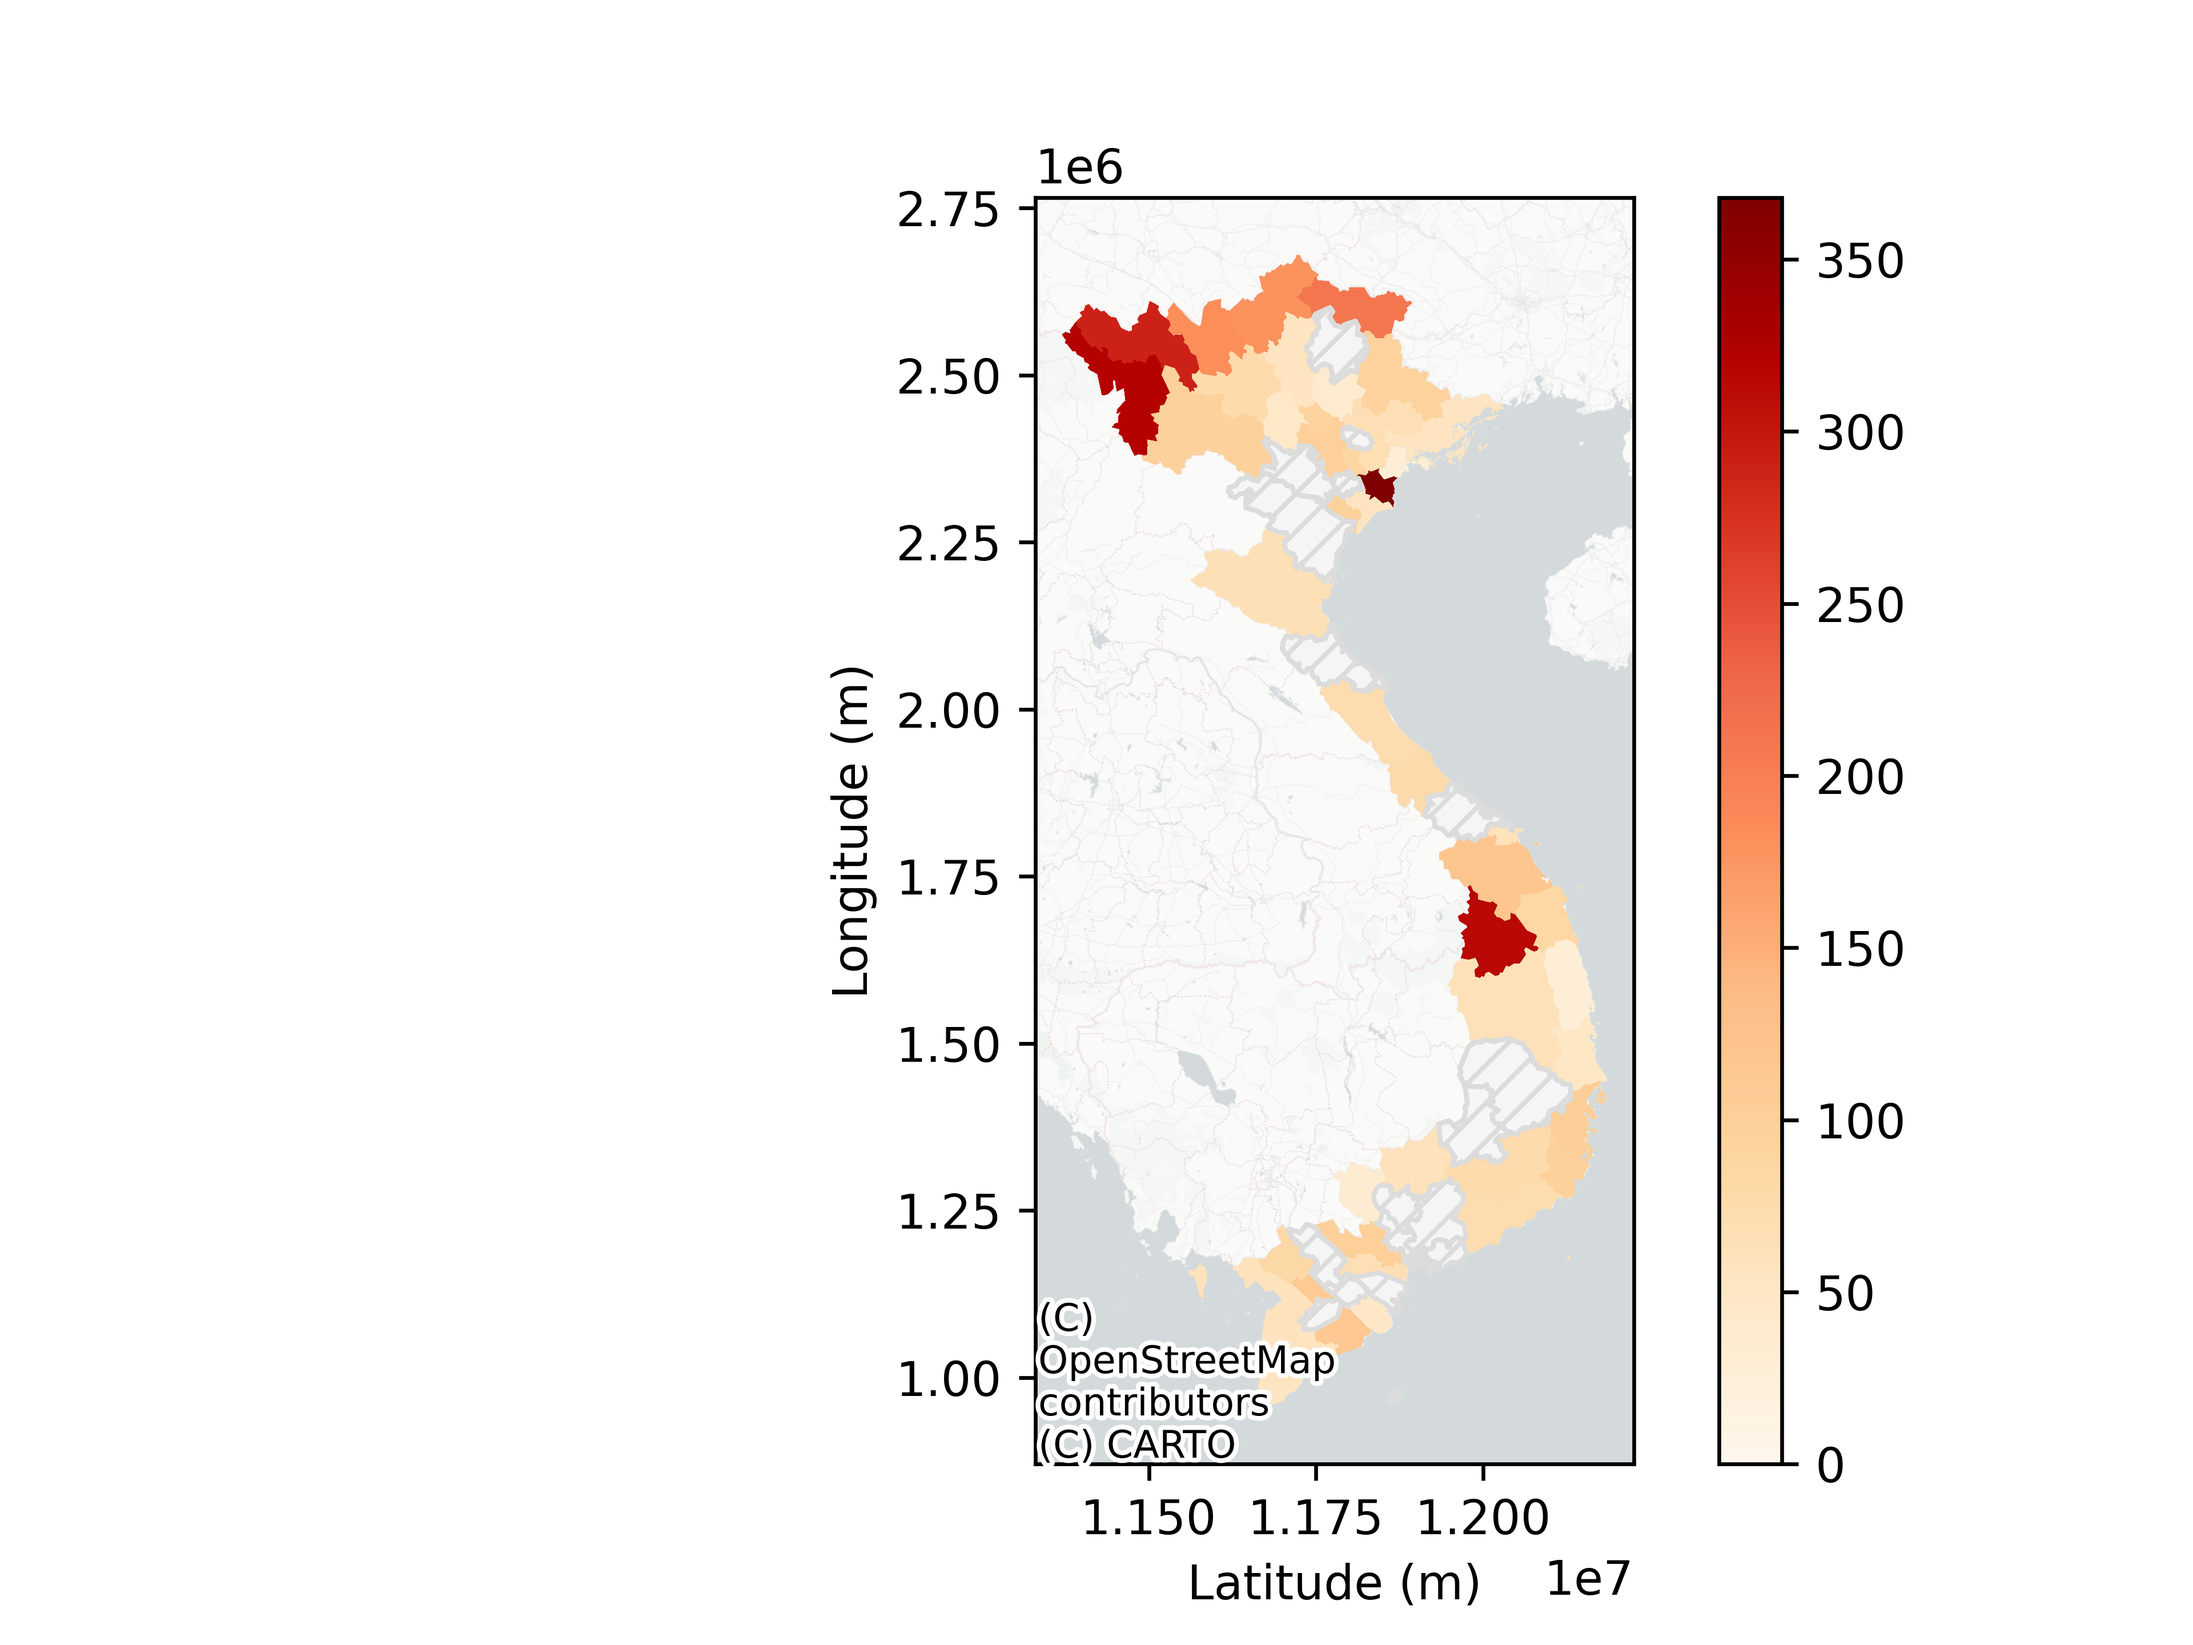
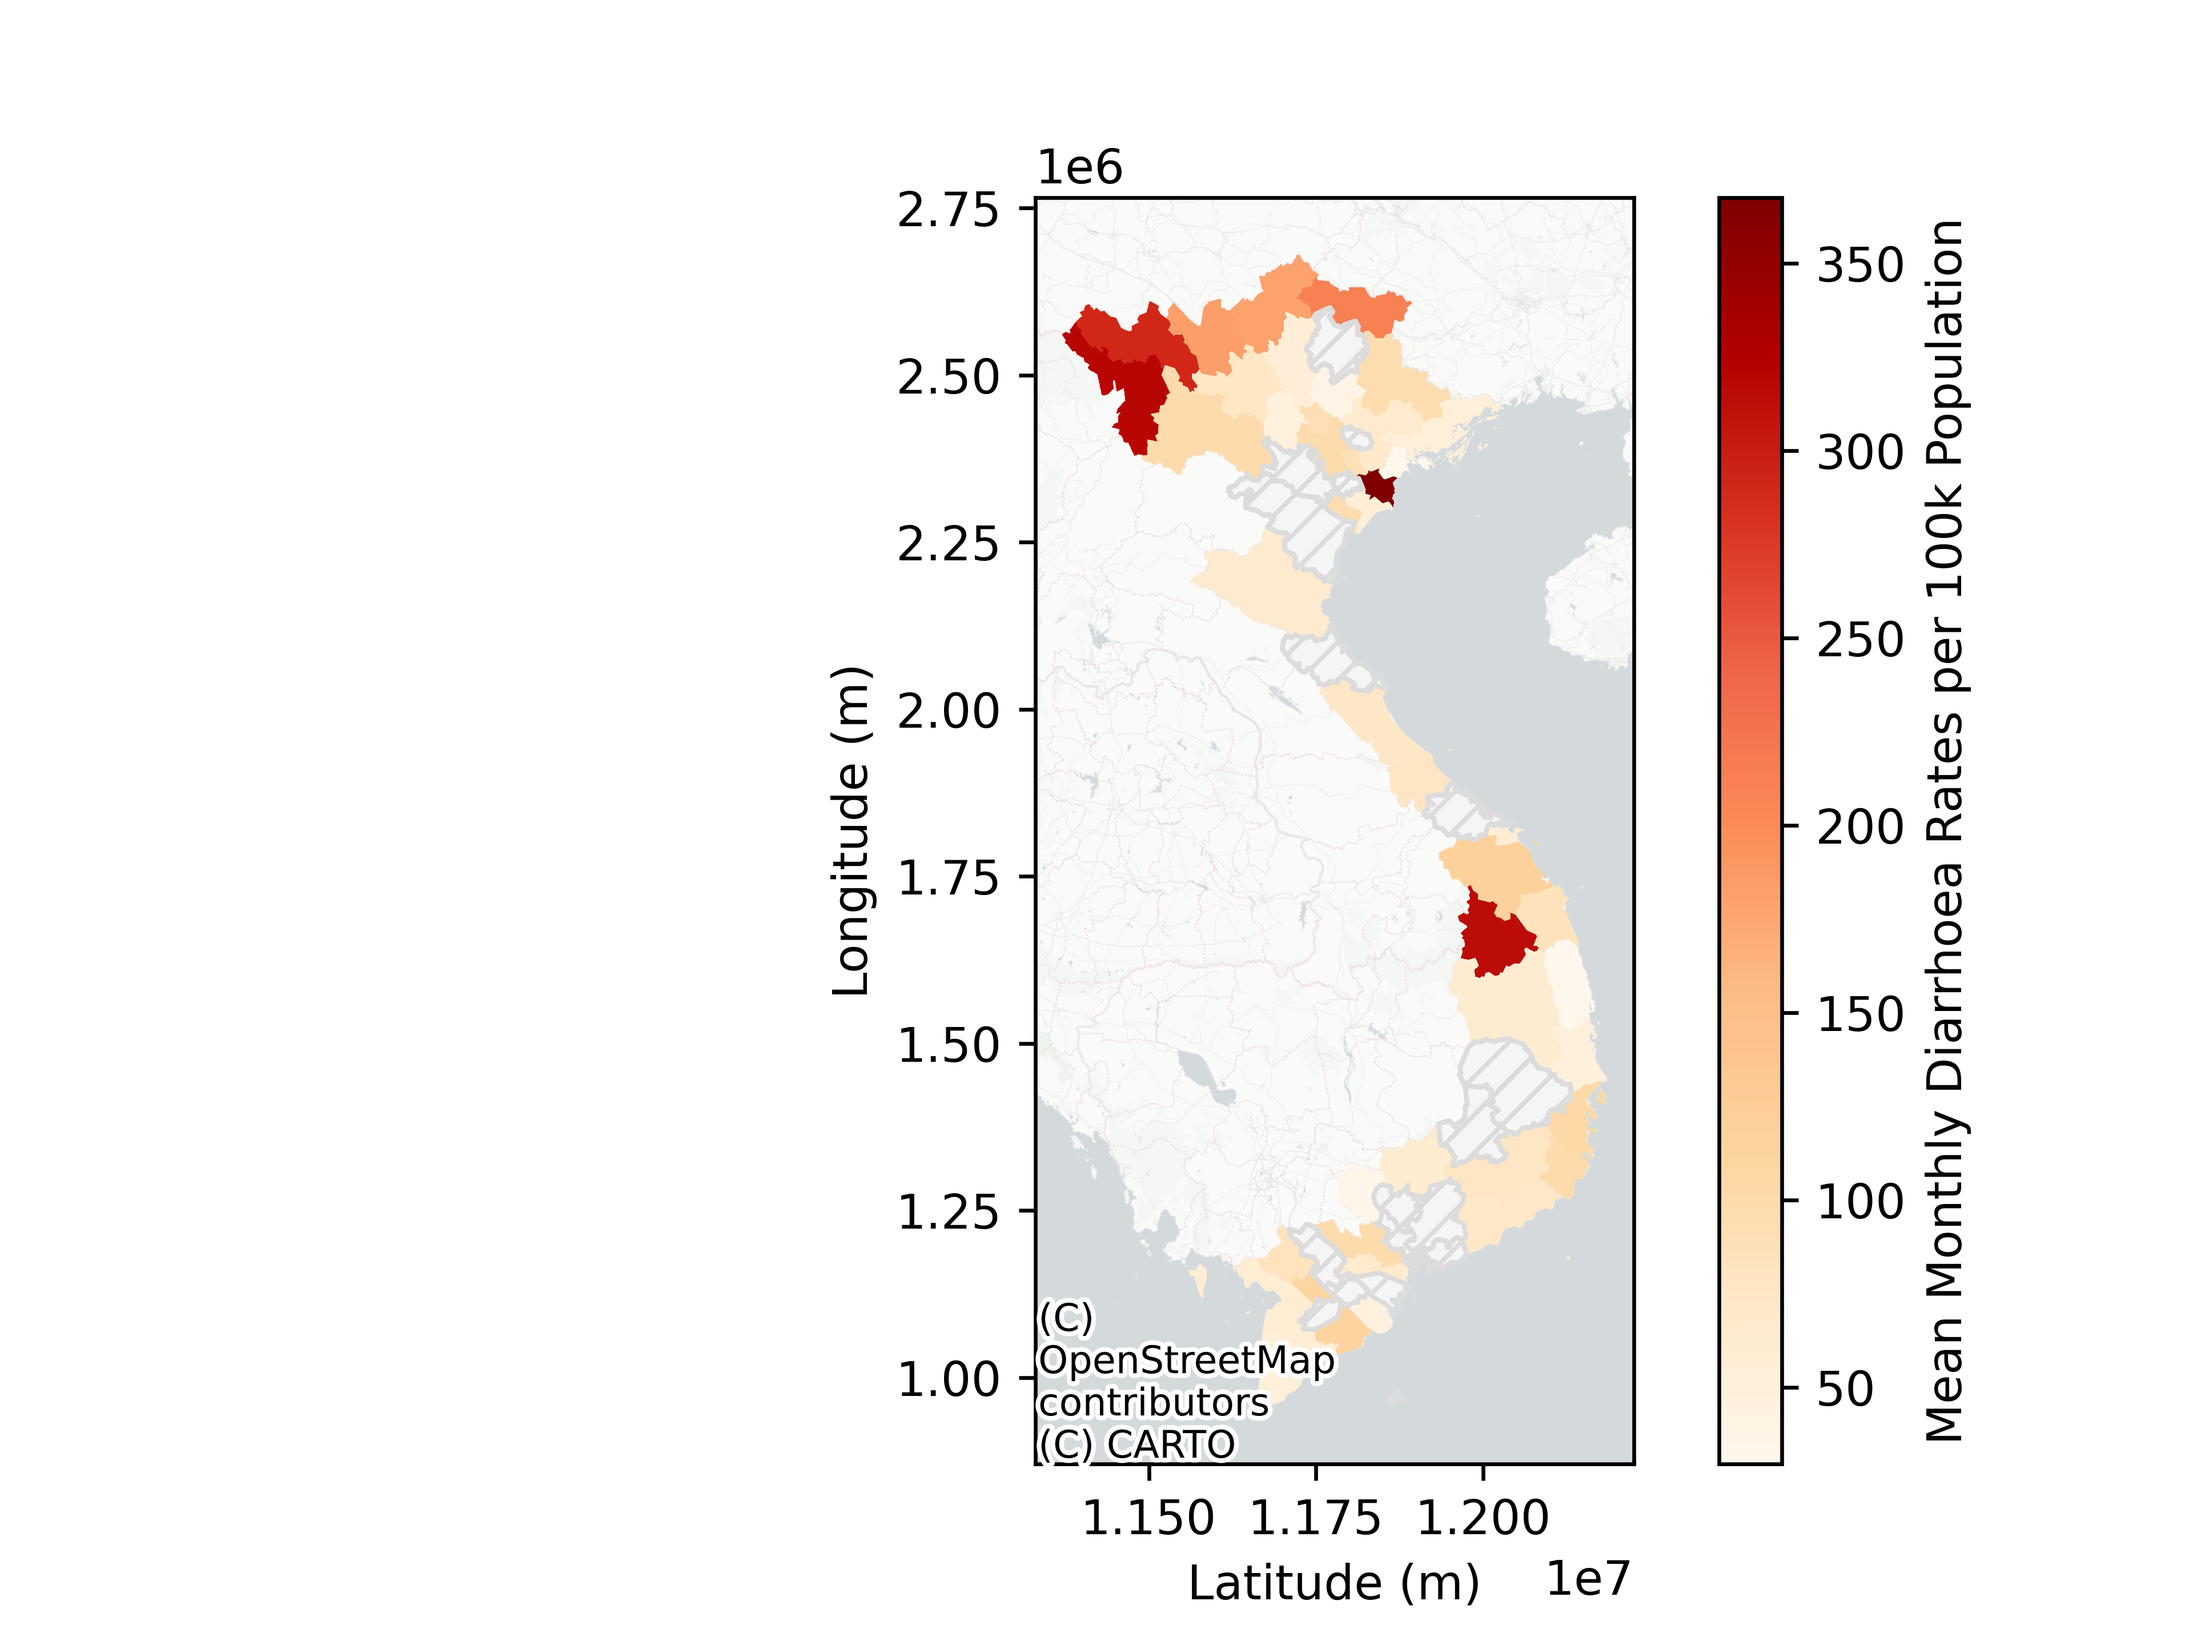
Added map legend label

Changed region(s): [[0.8125, 0.3438, 0.9062, 0.875], [0.8125, 0.125, 0.9062, 0.3438], [0.8125, 0.875, 0.8438, 0.9062]]

diff --git a/mapping.py b/mapping.py
@@ -4,8 +4,8 @@ import matplotlib.pyplot as plt
 import contextily as ctx
 
 # Read in json of Vietnam and climate/disease data
-geo_data = gp.read_file("C:\\Users\\james\\OneDrive\\Documents\\Vietnam_Project\\climate-sensitive-diseases\\vietnam.json")
-climate_data = pd.read_excel("C:\\Users\\james\\OneDrive\\Documents\\Vietnam_Project\\climate-sensitive-diseases\\Final_full_cleaned_dataset.xlsx")
+geo_data = gp.read_file("C:\\Users\\james\\OneDrive\\Documents\\Vietnam_Project\\climate-sensitive-diseases-private\\vietnam.json")
+climate_data = pd.read_excel("C:\\Users\\james\\OneDrive\\Documents\\Vietnam_Project\\climate-sensitive-diseases-private\\Final_full_cleaned_dataset.xlsx")
 
 # Rename so both dataframes have a province column to merge on
 geo_data = geo_data.rename(columns={'name':'province'})
@@ -43,6 +43,7 @@ fig, ax = plt.subplots()
 fig = full_data.plot(column='mean_diarrhoea_rates', 
                      cmap='OrRd', 
                      legend=True, 
+                     legend_kwds={'label': 'Mean Monthly Diarrhoea Rates per 100k Population'},
                      missing_kwds={"color": "whitesmoke", 
                                    "facecolor": "none", 
                                    "edgecolor": "gainsboro",
